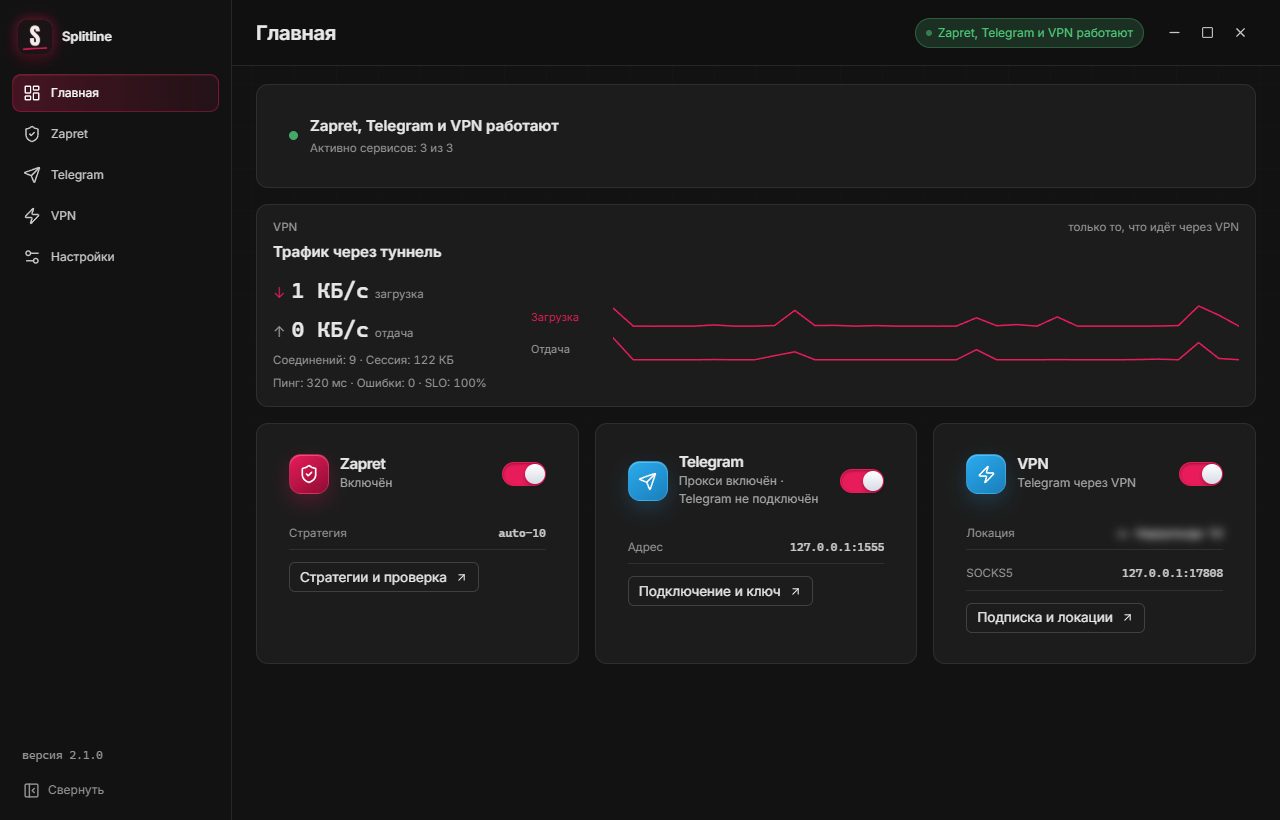
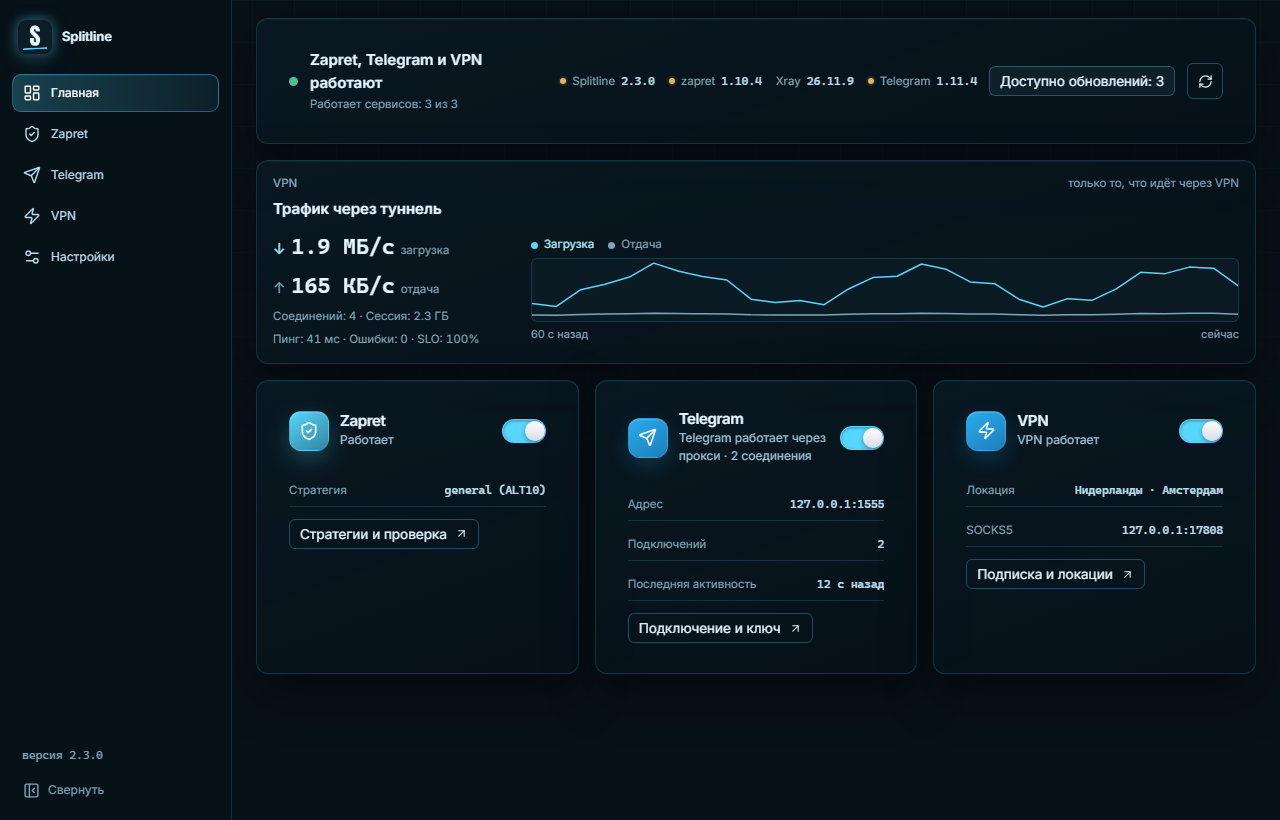
docs: describe the free proxy and the versions block

diff --git a/CHANGELOG.md b/CHANGELOG.md
@@ -11,7 +11,8 @@
 ### Добавлено
 
 - На «Главной» — версии Splitline, zapret, Xray и Telegram-прокси; точка показывает, где есть
-  обновление.
+  обновление, а кнопка с иконкой проверяет обновления вручную.
+- Telegram-прокси помечен как бесплатный: подписка и аккаунт не нужны.
 - Telegram-прокси: полный набор настроек Flowseal — Cloudflare-прокси и H2, свои и Worker-домены,
   DC → IP, буфер, пул, no-secure, force-test-dc и proxy-protocol.
 
@@ -19,6 +20,11 @@
 
 - Настройки прокси собраны в «Дополнительно» по группам; если своих CF-доменов нет, используется
   встроенный список Flowseal (он загружается с GitHub при старте).
+
+### Исправлено
+
+- Плашка «Telegram сидит на VPN» больше не появляется, если к прокси ещё не было подключений или
+  прокси выключен.
 
 ## [2.2.0] — 2026-11-20
 
